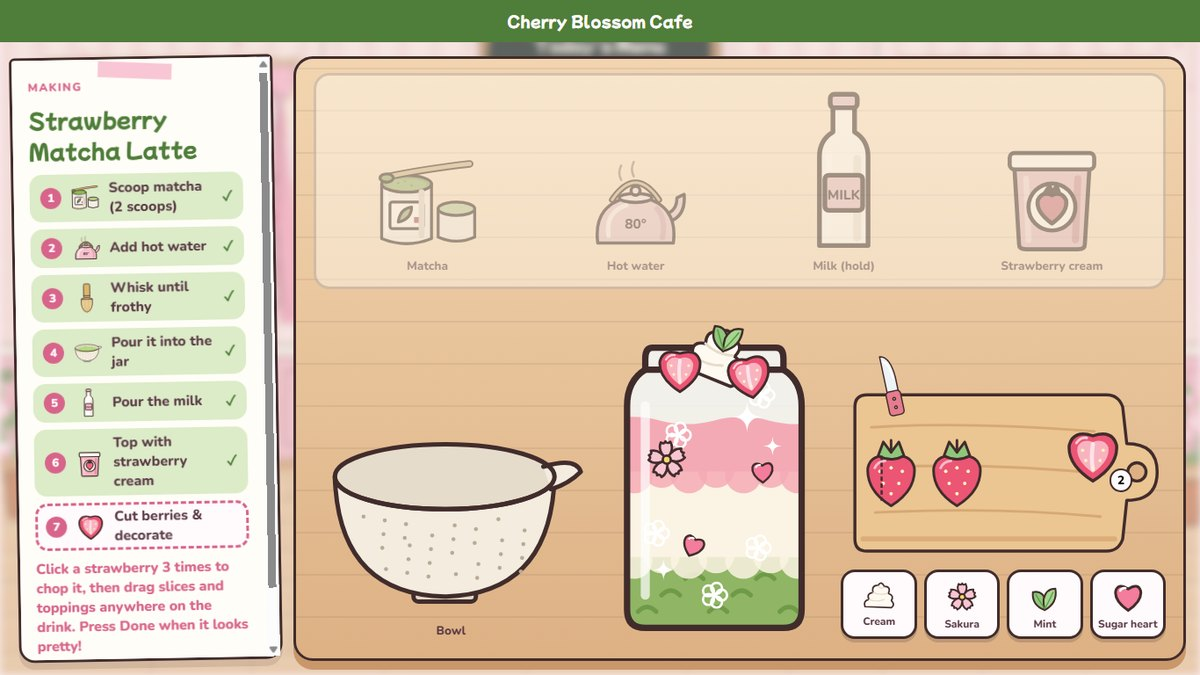
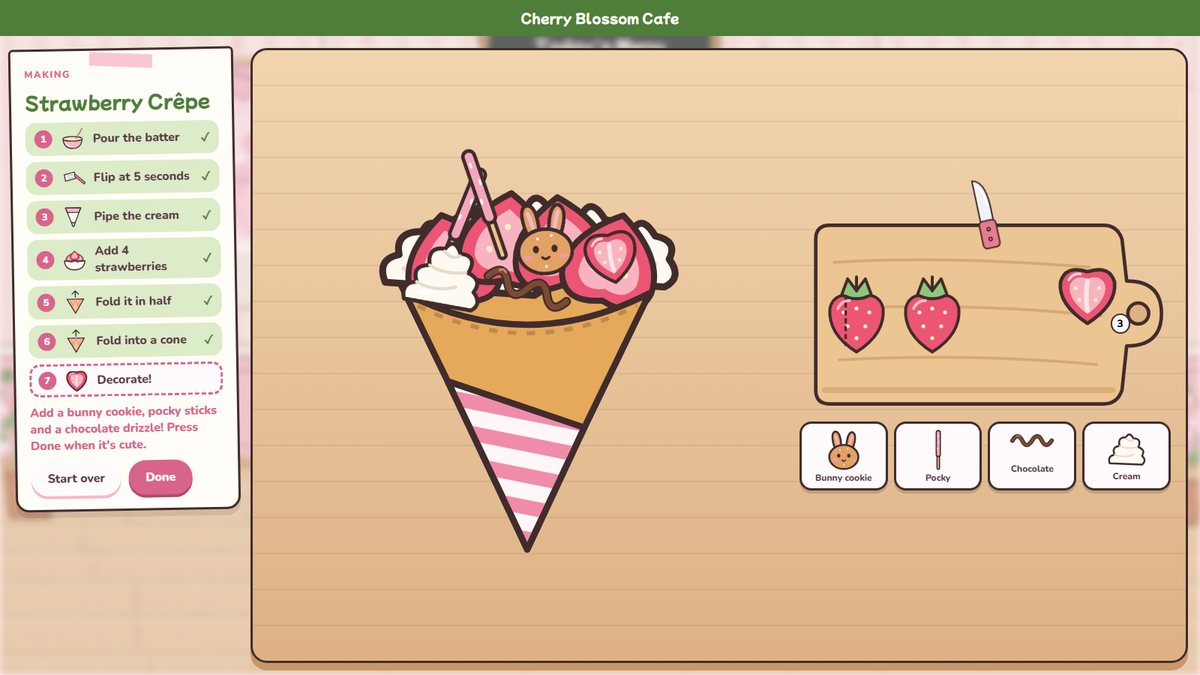
README: new screenshots of the kitchen, oven, tools, receipt and notebook; updated menu

diff --git a/README.md b/README.md
@@ -5,8 +5,9 @@
 **A cosy pink-and-green cafe cooking game, made in the browser.**
 
 Chef Bloom and her sleepy cat Mochi run a little cafe under the cherry trees.
-Customers drop by with a drink in mind. You whisk, pour, chop and decorate,
-then send them off happy (and earn a few coins on the way).
+Customers drop by with a treat in mind. You pick up real tools and pour,
+pipe, bake, flip, stir and decorate, then send them off happy
+(and earn a few coins on the way).
 
 <img src="docs/screenshots/street.jpg" alt="A close-up of the Cherry Blossom Cafe on a watercolour street, with a wooden welcome board and a pink Open the cafe sign hanging from it" width="820">
 
@@ -30,29 +31,33 @@ then send them off happy (and earn a few coins on the way).
 
 | | |
 |---|---|
-| <img src="docs/screenshots/counter.jpg" alt="A customer with twin tails stands by the counter with a thought cloud showing a strawberry matcha latte" width="400"> | **1. A customer walks in.** Their thought cloud shows the drink they're dreaming of. Click the cloud. |
-| <img src="docs/screenshots/recipe.jpg" alt="The recipe card for a Strawberry Matcha Latte, listing seven steps and a price of 15 coins" width="400"> | **2. Read the recipe card.** It shows the drink, every step in order, and the price. Click **Continue**. |
-| <img src="docs/screenshots/whisk.jpg" alt="The matcha station: a bamboo whisk over a bowl of frothy green matcha, with the recipe checklist on the left" width="400"> | **3. Make it at the work station.** Scoop the matcha, add hot water, then *really whisk*: drag side to side until the foam meter fills. Pour it into the jar, then **hold** the milk bottle and let go between the pink lines. |
-| <img src="docs/screenshots/decorate.jpg" alt="A layered pink, cream and green jar decorated with whipped cream, strawberry slices, mint, a sakura flower and sugar hearts, next to a cutting board" width="400"> | **4. Decorate however you like.** Chop strawberries on the board (3 chops = 4 slices), then drag slices, cream, sakura flowers, mint and sugar hearts *anywhere* on the drink. |
-| <img src="docs/screenshots/served.jpg" alt="The happy customer says 'So pretty! And perfect!' while 23 coins float up and Mochi celebrates" width="400"> | **5. Serve it!** A little receipt shows your score for every step (how close you got to the pink and green zones, plus decorating). The better the score, the bigger the tip. |
-| | **6. Finish the day.** Each day has a few customers (one more every day). After the last one, Bloom's notebook shows your stars, coins, average score and best dish. Your day and coins are saved. |
+| <img src="docs/screenshots/counter.jpg" alt="A customer with twin tails and a pink bow stands by the counter with a thought cloud showing a strawberry crêpe cone" width="400"> | **1. A customer walks in.** Their thought cloud shows what they're dreaming of. Click the cloud. |
+| <img src="docs/screenshots/recipe.jpg" alt="The recipe card for a Strawberry Crêpe, listing seven steps and a price of 16 coins" width="400"> | **2. Read the recipe card.** It shows the dish, every step in order, and the price. Click **Continue**. |
+| <img src="docs/screenshots/pour.jpg" alt="Sakura Tea: a pink kettle tipped over a glass mug, hot water pouring in up to a dashed pink line with a heart, sakura flowers floating" width="400"> | **3. Pick up the big tool and use it.** Each step brings ONE big tool to the table: a kettle, a batter bowl, a piping bag, a knife, a spoon… Drag it over and it pours, pipes or slices wherever you hold it. Stop at the line, then press **Next step**. Pour too much and it overflows! |
+| <img src="docs/screenshots/cream.jpg" alt="Strawberry Cream Toast: a piping bag moving over golden toast, leaving a trail of pink cream" width="400"> | **4. Cream flows where you move.** Hold the piping bag over the dessert and draw with it. The meter shows the perfect amount (the pink zone). |
+| <img src="docs/screenshots/oven.jpg" alt="A big pink oven with a croissant glowing inside the window, a timer reading 3.3 seconds and a Take out button on the door" width="400"> | **5. Bake it for real.** Drag the tray into the oven, press **Turn on**, and watch it through the window. Press **Take out!** at **5 seconds**. The toaster pops the bread up by itself, and on the pan you click the crêpe to flip it. |
+| <img src="docs/screenshots/decorate.jpg" alt="A strawberry crêpe cone with a bunny cookie, pocky sticks, chocolate drizzle and strawberry slices, next to a cutting board and topping tray" width="400"> | **6. Decorate however you like.** Chop strawberries on the board (3 chops = 4 slices), then drag slices, cream, bunny cookies, pocky, daisies and more *anywhere* on it. |
+| <img src="docs/screenshots/served.jpg" alt="The happy customer says 'So pretty! And perfect!' and pays 24 coins, while a receipt shows a score for each step and a total of 98%" width="400"> | **7. Serve it!** A receipt shows your score for every step. Mistakes are allowed: too much batter, 6 strawberries instead of 4, or a late flip all cost points. The better the score, the bigger the tip. |
+| <img src="docs/screenshots/notebook.jpg" alt="Bloom's notebook: Day 1 is done, with 3 gold stars, 5 customers served, 102 coins, a 92% average and Sakura Tea as the best dish" width="400"> | **8. Finish the day.** Each day has a few customers (one more every day). After the last one, Bloom's notebook shows your stars, coins, average score and best dish. Your day and coins are saved. |
 
 ---
 
 ## 🧁 The menu
 
-| Drink | How it's made | Price |
-|---|---|---|
-| 🍵 **Strawberry Matcha Latte** | Hands-on matcha station: scoop, whisk, pour, layer, decorate | 15 coins |
-| 🍓 **Strawberry Milk** | Mash strawberries with the masher, drop in ice, carry the milk over to pour, stir until it's all pink | 10 coins |
-| 🌸 **Sakura Tea** | Pick up each tool: drop in 3 flowers, pour hot water to the heart line (don't overflow!), stir it pink with a spoon, drip honey anywhere | 9 coins |
-| 🍯 **Honey Coffee** | Grind beans, brew a shot, drip honey with the dipper, pour your own latte art | 11 coins |
-| 🍦 **Strawberry Crêpe** | Carry the batter bowl to the pan, click the crêpe to flip it at 5 seconds, pipe cream, drop in strawberries, fold into a cone, add a bunny cookie | 16 coins |
-| 🍥 **Strawberry Roll Cake** | Pour batter in the tray, bake, pipe pink cream, roll it up, slice through with the knife | 18 coins |
-| 🍞 **Strawberry Cream Toast** | Push the bread down, lift it out when the toaster pops, pipe pink cream, drip honey anywhere, add heart strawberries and daisies | 12 coins |
-| 🥐 **Strawberry Croissant** | Bake, slice it open with the knife, pipe cream, drop in strawberries, dust with the sifter | 14 coins |
+Everything is hands-on: one big tool at a time, and **you** decide when each step is done.
 
-Every drink can be decorated. Customers love toppings! 💕
+| | Dish | How it's made | Price |
+|---|---|---|---|
+| 🍵 | **Strawberry Matcha Latte** | Drag 2 scoops of matcha into the bowl, pour hot water, whisk it frothy, pour the bowl into the jar, milk to the pink lines, strawberry cream on top | 15 coins |
+| 🍓 | **Strawberry Milk** | Mash strawberries in the glass with the masher, drop in 3 ice cubes, pour the milk, stir until it's all pink | 10 coins |
+| 🌸 | **Sakura Tea** | Drop in 3 sakura flowers, pour hot water to the heart line (don't overflow!), stir it pink with a spoon, drip honey anywhere | 9 coins |
+| ☕ | **Honey Coffee** | Turn the grinder 4 times, brew a 5-second shot, drip honey with the dipper, pour your own latte art | 11 coins |
+| 🍦 | **Strawberry Crêpe** | Pour batter in the pan, click the crêpe to flip it at 5 seconds, pipe cream, add 4 strawberries, fold it in half, then into a cone | 16 coins |
+| 🍥 | **Strawberry Roll Cake** | Pour batter in the tray, bake it in the oven for 5 seconds, pipe pink cream, roll it up, slice through with the knife | 18 coins |
+| 🍞 | **Strawberry Cream Toast** | Put the bread in the toaster, lift it out when it pops, pipe pink cream, drip honey anywhere | 12 coins |
+| 🥐 | **Strawberry Croissant** | Bake it in the oven for 5 seconds, slice it open, pipe cream inside, add 4 strawberries, dust with the sugar sifter | 14 coins |
+
+Everything ends with decorating. Customers love toppings! 💕
 
 ---
 
@@ -62,7 +67,7 @@ Every drink can be decorated. Customers love toppings! 💕
 2. Open **`index.html`** in your browser.
 3. Click the pink **Open the cafe** sign hanging from the wooden board, and walk inside.
 
-That's it: no installs, no build step. Works with a mouse, a touchscreen, or a keyboard (← → to whisk, Space to pour).
+That's it: no installs, no build step. Works with a mouse, a touchscreen, or a keyboard (Space to pour, arrow keys to stir, Enter to flip).
 
 ---
 
@@ -95,7 +100,9 @@ That's it: no installs, no build step. Works with a mouse, a touchscreen, or a k
 - **CSS animations** with `@keyframes`, triggered by adding a class
 - **SVG drawing**, plus filters that make smooth shapes look hand-painted
 - **`async` / `await`** to script a scene step by step (react → pay → walk out)
-- **Pointer events** for whisking, hold-to-pour and drag-and-drop
+- **Pointer events** for picking tools up, pouring, piping and drag-and-drop
+- **Data-driven design**: every recipe is just a list of steps, and one station (`bakery.js`) runs them all
+- **Saving** progress in the browser with `localStorage`
 - **Splitting code into files** so each one does one thing
 - **Debugging!** Like the time only one customer ever came, because the last one's walk-out animation was never cleared 🙈
 
@@ -105,18 +112,18 @@ That's it: no installs, no build step. Works with a mouse, a touchscreen, or a k
 
 - [x] Desserts! Crêpe, roll cake, cream toast and croissant
 - [ ] More drinks and desserts (strawberry shortcake, anyone?)
-- [x] Cafe days with an end-of-day notebook, and a % score for every step
+- [x] Cafe days with an end-of-day notebook, a % score for every step, and saving
+- [x] Real tools, a real oven timer, and room for mistakes
 - [ ] Several customers at once, with order tickets
 - [ ] Ranks that unlock new recipes, and a shop for decorations
 - [ ] Sounds: the whisk, the pour, the coin *ding*
-- [ ] Saving your coins between visits
 
 ---
 
 ## 💐 Credits
 
 - Chef Bloom's artwork is used with the original artist's permission.
-- The street, cafe, Mochi, customers and tools were drawn for this game, inspired by reference art shared with permission.
+- The street, cafe, Mochi, customers, tools and desserts were drawn for this game, inspired by reference art shared with permission.
 - Fonts: [Mochiy Pop One](https://fonts.google.com/specimen/Mochiy+Pop+One) and [Nunito](https://fonts.google.com/specimen/Nunito) from Google Fonts.
 
 <div align="center">
